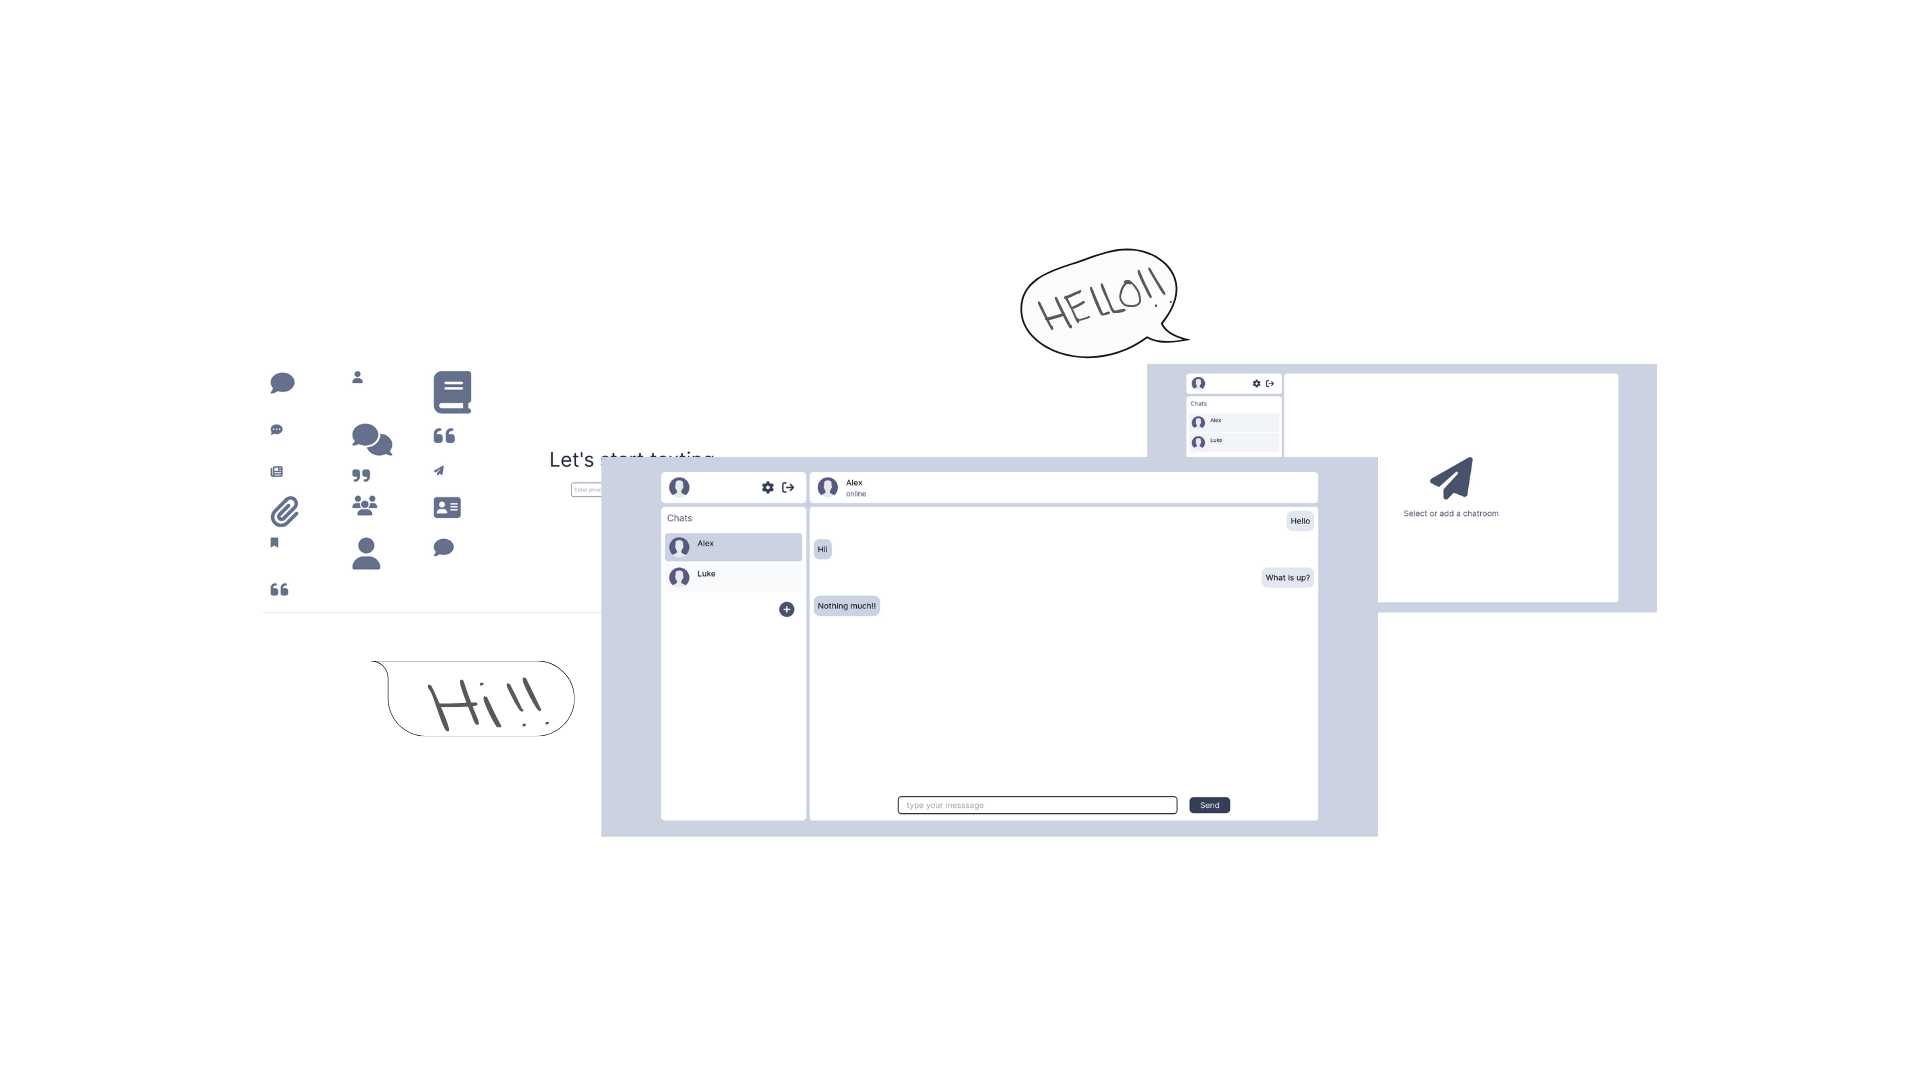
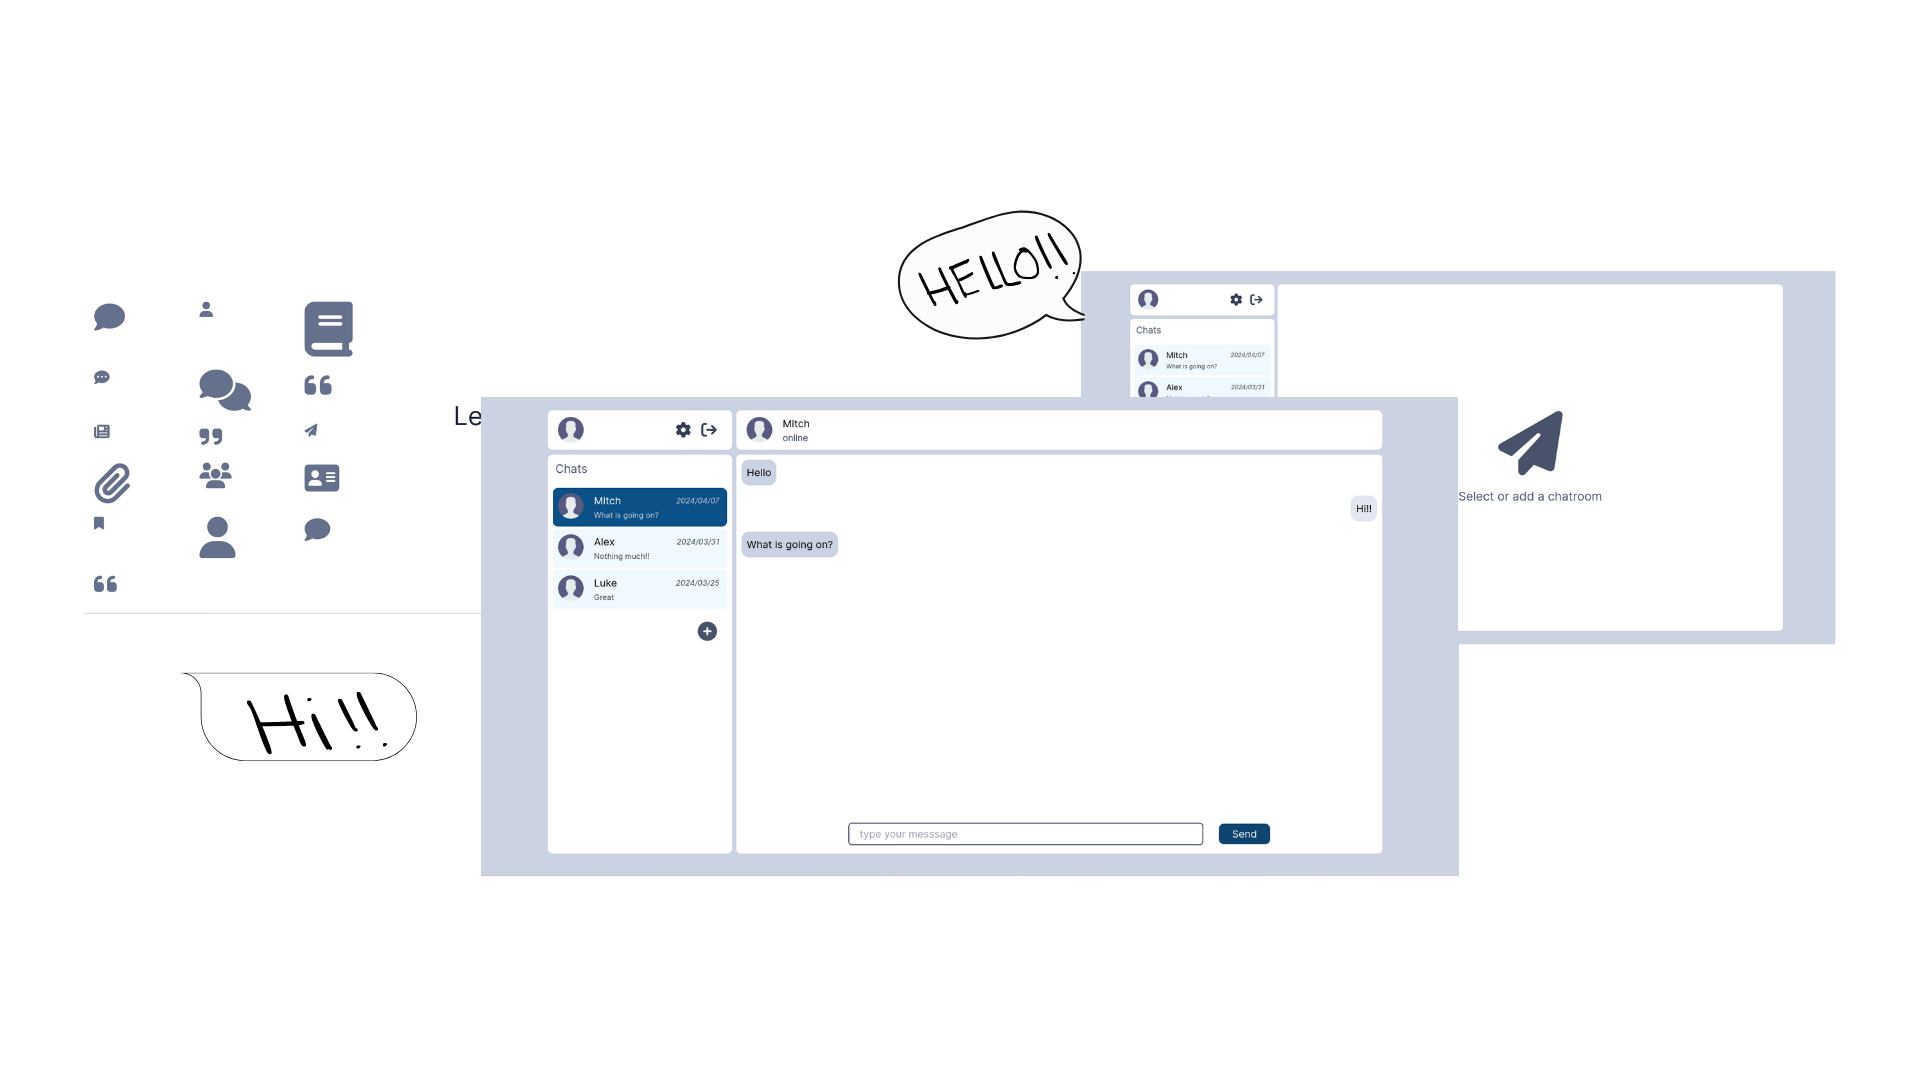
UI (enhancements): Chatroom list item metadata

diff --git a/src/components/Sidebar/ChatRoomsListItem.js b/src/components/Sidebar/ChatRoomsListItem.js
@@ -5,6 +5,8 @@ function ChatRoomsListItem (props) {
     const authServerEndpoint = 'http://127.0.0.1:8000';
     const debugPrefix = "CHATROOM_LIST_ITEM:::::";
     const [className,setClassName] = useState("flex bg-sky-50 p-2 min-w-0 gap-x-4 hover:bg-sky-100 rounded-md");
+    const [lastMessageClassName,setLastMessageClassName] = useState("truncate text-xs leading-5 text-slate-700");
+    const [lastMessageTimestampClassName,setLastMessageTimestampClassName] = useState("text-xs content-center text-slate-700 p-1 italic");
 
 
     const handleChatRoomSelection = () => {
@@ -16,9 +18,13 @@ function ChatRoomsListItem (props) {
         if(props.currentChatRoom){
             if(props.currentChatRoom.id == props.chatroom.id){
                 setClassName("flex p-2 min-w-0 gap-x-4 rounded-lg bg-sky-800 text-white");
+                setLastMessageClassName("truncate text-xs leading-5 text-slate-300")
+                setLastMessageTimestampClassName("text-xs content-center text-slate-300 p-1 italic")
             }
             else{
                 setClassName("flex bg-sky-50 p-2 min-w-0 gap-x-4 hover:bg-sky-100 rounded-md");
+                setLastMessageClassName("truncate text-xs leading-5 text-slate-700")
+                setLastMessageTimestampClassName("text-xs content-center text-slate-700 p-1 italic")
             }
         }
     },[props.currentChatRoom])
@@ -29,9 +35,9 @@ function ChatRoomsListItem (props) {
             <div class="min-w-0 flex-auto">
                 <div className="flex flex-row justify-between">
                     <div className="leading-6">{props.chatroom.name}</div>
-                    <div className="text-xs content-center p-1 italic">{props.chatroom.timestamp_str}</div>
+                    <div className= {lastMessageTimestampClassName}>{props.chatroom.timestamp_str}</div>
                 </div>
-                <p class=" truncate text-xs leading-5"> {props.chatroom.last_message}</p>
+                <p className = {lastMessageClassName}> {props.chatroom.last_message}</p>
             </div> 
         </div>
    ) 
